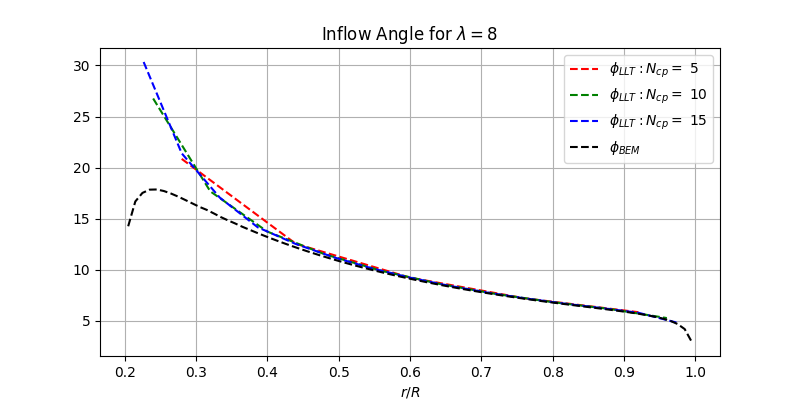
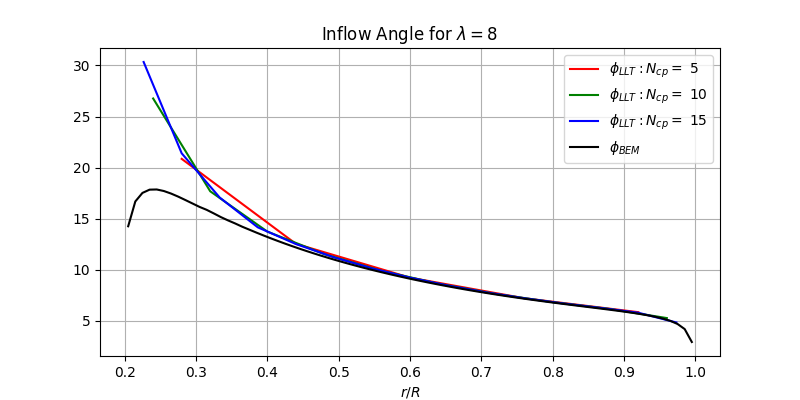
Inflow Angle figures modified

diff --git a/main.py b/main.py
@@ -284,9 +284,9 @@ elif choice == '2':
 
         fig2 = plt.figure(figsize=(8, 4))
         plt.title(r'Inflow Angle for $\lambda=$'+str(TSR))
-        plt.plot(mu_LL[0], np.rad2deg(control[0]['phi'][0:Ncp]), '--r', label=r'$\phi_{LLT} - non-averaged$')
-        plt.plot(mu_LL[1], np.rad2deg(control[1]['phi'][0:Ncp]), '--g', label=r'$\phi_{LLT} - averaged$')
-        plt.plot(mu, np.rad2deg(phi_BEM), '--k', label=r'$\phi_{BEM}$')
+        plt.plot(mu_LL[0], np.rad2deg(control[0]['phi'][0:Ncp]), '-r', label=r'$\phi_{LLT} - non-averaged$')
+        plt.plot(mu_LL[1], np.rad2deg(control[1]['phi'][0:Ncp]), '-g', label=r'$\phi_{LLT} - averaged$')
+        plt.plot(mu, np.rad2deg(phi_BEM), '-k', label=r'$\phi_{BEM}$')
         plt.xlabel(r'$r/R$')
         plt.legend()
         plt.grid()
@@ -368,9 +368,9 @@ elif choice == '3':
 
         fig2 = plt.figure(figsize=(8, 4))
         plt.title(r'Inflow Angle for $\lambda=$'+str(TSR))
-        plt.plot(mu_LL[0], np.rad2deg(control[0]['phi'][0:Ncp]), '--r', label=r'$\phi_{LLT} - regular$')
-        plt.plot(mu_LL[1], np.rad2deg(control[1]['phi'][0:Ncp]), '--g', label=r'$\phi_{LLT} - cosine$')
-        plt.plot(mu, np.rad2deg(phi_BEM), '--k', label=r'$\phi_{BEM}$')
+        plt.plot(mu_LL[0], np.rad2deg(control[0]['phi'][0:Ncp]), '-r', label=r'$\phi_{LLT} - regular$')
+        plt.plot(mu_LL[1], np.rad2deg(control[1]['phi'][0:Ncp]), '-g', label=r'$\phi_{LLT} - cosine$')
+        plt.plot(mu, np.rad2deg(phi_BEM), '-k', label=r'$\phi_{BEM}$')
         plt.xlabel(r'$r/R$')
         plt.legend()
         plt.grid()
@@ -453,10 +453,10 @@ elif choice == '4':
 
         fig2 = plt.figure(figsize=(8, 4))
         plt.title(r'Inflow Angle for $\lambda=$'+str(TSR))
-        plt.plot(mu_LL[0], np.rad2deg(control[0]['phi'][0:Ncp[0]]), '--r', label=r'$\phi_{LLT}: N_{cp} =$ %.d' %Ncp[0])
-        plt.plot(mu_LL[1], np.rad2deg(control[1]['phi'][0:Ncp[1]]), '--g', label=r'$\phi_{LLT}: N_{cp} =$ %.d' %Ncp[1])
-        plt.plot(mu_LL[2], np.rad2deg(control[2]['phi'][0:Ncp[2]]), '--b', label=r'$\phi_{LLT}: N_{cp} =$ %.d' %Ncp[2])
-        plt.plot(mu, np.rad2deg(phi_BEM), '--k', label=r'$\phi_{BEM}$')
+        plt.plot(mu_LL[0], np.rad2deg(control[0]['phi'][0:Ncp[0]]), '-r', label=r'$\phi_{LLT}: N_{cp} =$ %.d' %Ncp[0])
+        plt.plot(mu_LL[1], np.rad2deg(control[1]['phi'][0:Ncp[1]]), '-g', label=r'$\phi_{LLT}: N_{cp} =$ %.d' %Ncp[1])
+        plt.plot(mu_LL[2], np.rad2deg(control[2]['phi'][0:Ncp[2]]), '-b', label=r'$\phi_{LLT}: N_{cp} =$ %.d' %Ncp[2])
+        plt.plot(mu, np.rad2deg(phi_BEM), '-k', label=r'$\phi_{BEM}$')
         plt.xlabel(r'$r/R$')
         plt.legend()
         plt.grid()
@@ -547,10 +547,10 @@ elif choice == '5':
 
         fig2 = plt.figure(figsize=(8, 4))
         plt.title(r'Inflow Angle for $\lambda=$'+str(TSR))
-        plt.plot(mu_LL[0], np.rad2deg(control[0]['phi'][0:Ncp]), '--r', label=r'$\phi_{LLT}: L_{wake} =$ %.1fD' %Loutlet[0])
-        plt.plot(mu_LL[1], np.rad2deg(control[1]['phi'][0:Ncp]), '--g', label=r'$\phi_{LLT}: L_{wake} =$ %.1fD' %Loutlet[1])
-        plt.plot(mu_LL[2], np.rad2deg(control[2]['phi'][0:Ncp]), '--b', label=r'$\phi_{LLT}: L_{wake} =$ %.1fD' %Loutlet[2])
-        plt.plot(mu, np.rad2deg(phi_BEM), '--k', label=r'$\phi_{BEM}$')
+        plt.plot(mu_LL[0], np.rad2deg(control[0]['phi'][0:Ncp]), '-r', label=r'$\phi_{LLT}: L_{wake} =$ %.1fD' %Loutlet[0])
+        plt.plot(mu_LL[1], np.rad2deg(control[1]['phi'][0:Ncp]), '-g', label=r'$\phi_{LLT}: L_{wake} =$ %.1fD' %Loutlet[1])
+        plt.plot(mu_LL[2], np.rad2deg(control[2]['phi'][0:Ncp]), '-b', label=r'$\phi_{LLT}: L_{wake} =$ %.1fD' %Loutlet[2])
+        plt.plot(mu, np.rad2deg(phi_BEM), '-k', label=r'$\phi_{BEM}$')
         plt.xlabel(r'$r/R$')
         plt.legend()
         plt.grid()
